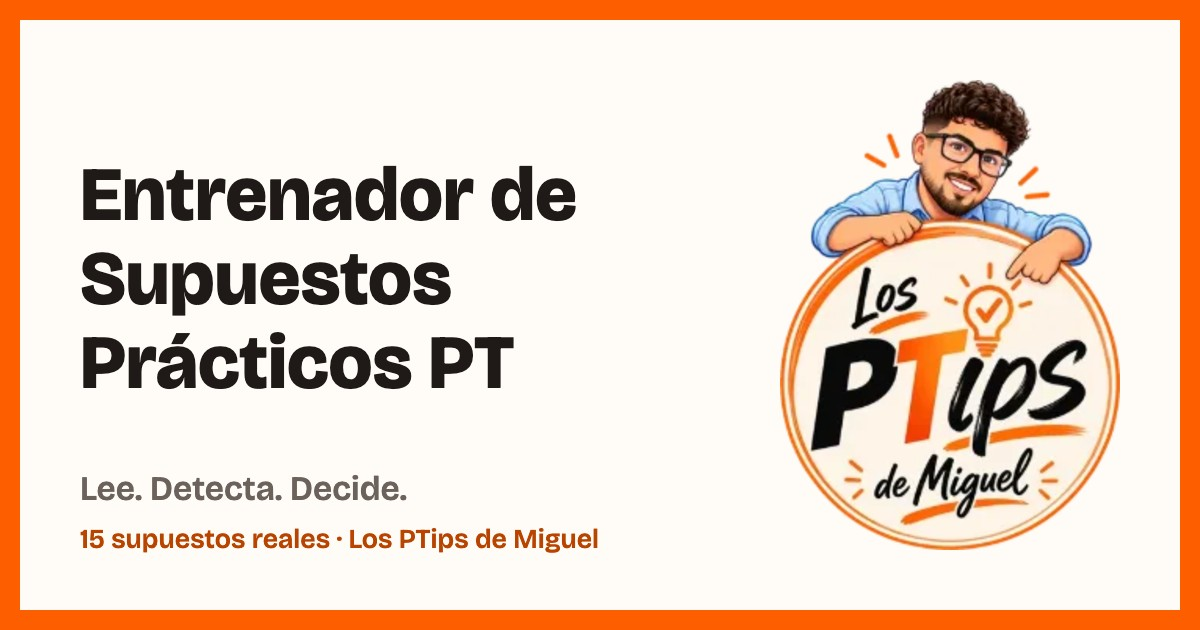
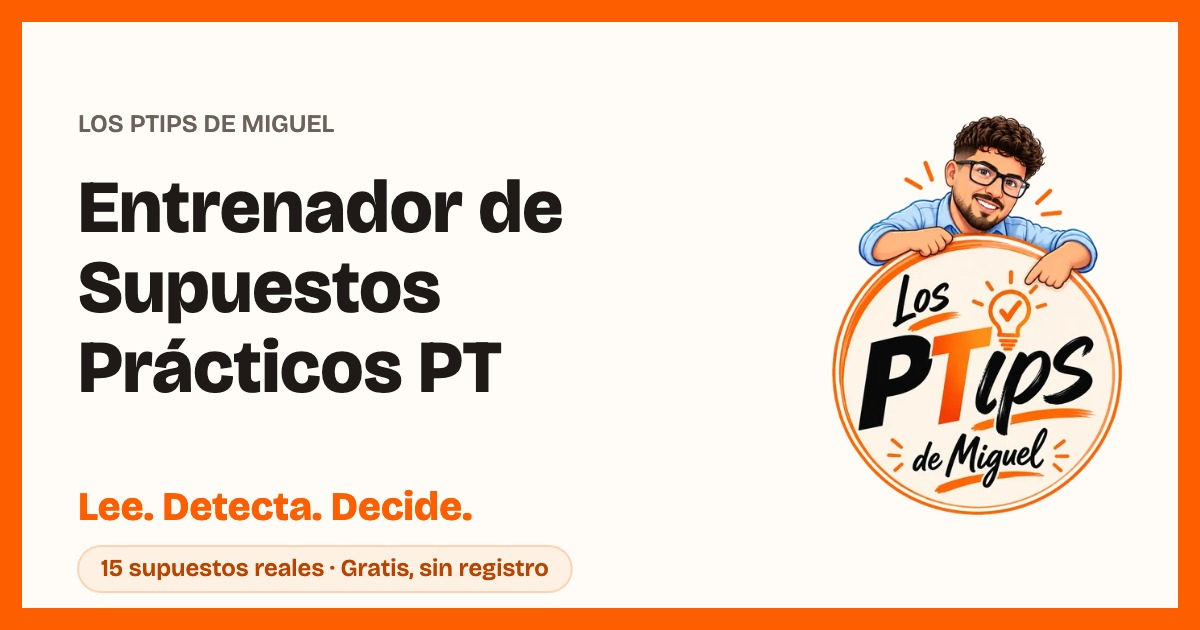
Mejora la tarjeta de vista previa del enlace
Rediseña portada.jpg con la estética del cartel y declara las medidas de
la imagen, que es lo que lleva a WhatsApp y Telegram a mostrar la foto
grande en lugar de una miniatura.

Changed region(s): [[0.0, 0.0302, 0.9867, 0.9952], [0.0617, 0.2413, 0.4933, 0.6333], [0.0617, 0.181, 0.2775, 0.2111]]

diff --git a/index.html b/index.html
@@ -11,6 +11,10 @@
 <meta property="og:title" content="Entrenador de Supuestos Prácticos PT">
 <meta property="og:description" content="Lee. Detecta. Decide. 15 supuestos reales de oposición de Pedagogía Terapéutica en Andalucía.">
 <meta property="og:image" content="https://mptlod.github.io/entrenador-pt/portada.jpg">
+<meta property="og:image:width" content="1200">
+<meta property="og:image:height" content="630">
+<meta property="og:image:alt" content="Entrenador de Supuestos Prácticos PT · Los PTips de Miguel">
+<meta property="og:site_name" content="Los PTips de Miguel">
 <meta property="og:url" content="https://mptlod.github.io/entrenador-pt/">
 <meta property="og:locale" content="es_ES">
 <meta name="twitter:card" content="summary_large_image">
